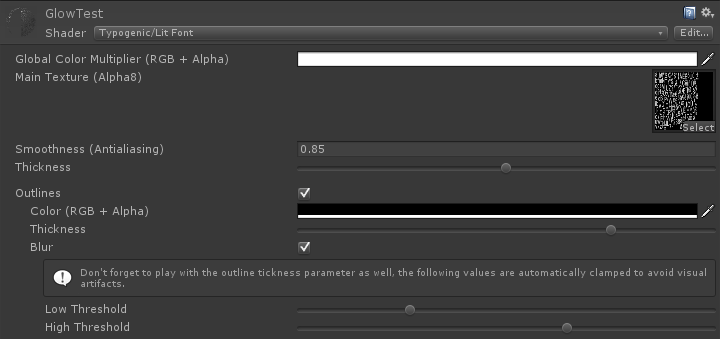
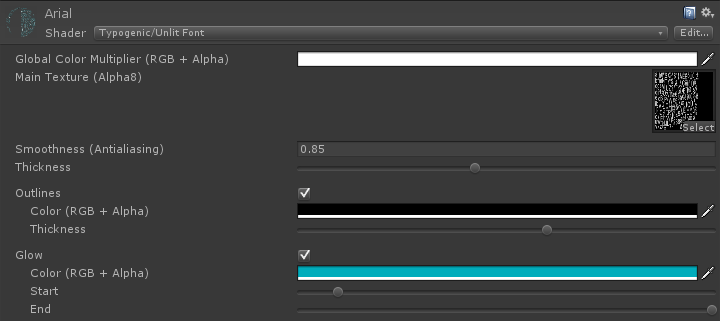
Replaced the dumb outline blur implementation with a proper glow and cleaned up the shaders a bit

diff --git a/Typogenic/Documentation/index.html b/Typogenic/Documentation/index.html
@@ -159,7 +159,9 @@
 
 				<p><strong>Thickness</strong> controls the font weight to make the text bolder or thinner, up to a certain point.</p>
 
-				<p>You can also enable <strong>Outlines</strong> and control their <strong>Thickness</strong>, <strong>Color</strong> and <strong>Glow</strong> strength. The <strong>Thickness</strong> parameter will be limited by the spread amount used in the <strong>Distance Field</strong> panel of Littera. You can offset the <strong>Outlines</strong> by playing with both <strong>Thickness</strong> values.</p>
+				<p>You can also enable <strong>Outlines</strong> and control their <strong>Thickness</strong> and <strong>Color</strong>. The <strong>Thickness</strong> parameter will be limited by the spread amount used in the <strong>Distance Field</strong> panel of Littera. You can offset the <strong>Outlines</strong> by playing with both <strong>Thickness</strong> values.</p>
+
+				<p>Like the outlines, the <strong>Glow</strong> spread will be limited by the spread amount used in the <strong>Distance Field</strong> panel of Littera.</p>
 
 				<p>The <strong>Global Color Multiplier</strong> can be used to quickly change the text color or alpha without rebuilding the mesh, which can be useful to do quick animated color or fade effects. It applies to the outlines as well, if any. Set it to full-white full-opaque to disable it.</p>
 

diff --git a/Typogenic/Editor/TypogenicMaterialEditor.cs b/Typogenic/Editor/TypogenicMaterialEditor.cs
@@ -54,22 +54,25 @@ public class TypogenicMaterialEditor : MaterialEditor
 			ColorProperty(properties["_OutlineColor"], "Color (RGB + Alpha)");
 			RangeProperty(properties["_OutlineThickness"], "Thickness");
 
-			// OUTLINED_BLUR
-			bool blur = inKeywords.Contains("OUTLINED_BLUR_ON");
-			EditorGUI.BeginChangeCheck();
-			blur = EditorGUILayout.Toggle("Blur", blur);
-			if (EditorGUI.EndChangeCheck())
-				RegisterPropertyChangeUndo("Blur");
-			outKeywords.Add(blur ? "OUTLINED_BLUR_ON" : "OUTLINED_BLUR_OFF");
+			EditorGUI.indentLevel--;
+		}
 
-			if (blur)
-			{
-				EditorGUI.indentLevel++;
-				EditorGUILayout.HelpBox("Don't forget to play with the outline tickness parameter as well, the following values are automatically clamped to avoid visual artifacts.", MessageType.Info);
-				RangeProperty(properties["_OutlineBlurLow"], "Low Threshold");
-				RangeProperty(properties["_OutlineBlurHigh"], "High Threshold");
-				EditorGUI.indentLevel--;
-			}
+		// GLOW
+		EditorGUILayout.Space();
+		bool glowing = inKeywords.Contains("GLOW_ON");
+		EditorGUI.BeginChangeCheck();
+		glowing = EditorGUILayout.Toggle("Glow", glowing);
+		if (EditorGUI.EndChangeCheck())
+			RegisterPropertyChangeUndo("Glow");
+		outKeywords.Add(glowing ? "GLOW_ON" : "GLOW_OFF");
+
+		if (glowing)
+		{
+			EditorGUI.indentLevel++;
+
+			ColorProperty(properties["_GlowColor"], "Color (RGB + Alpha)");
+			RangeProperty(properties["_GlowStart"], "Start");
+			RangeProperty(properties["_GlowEnd"], "End");
 
 			EditorGUI.indentLevel--;
 		}
